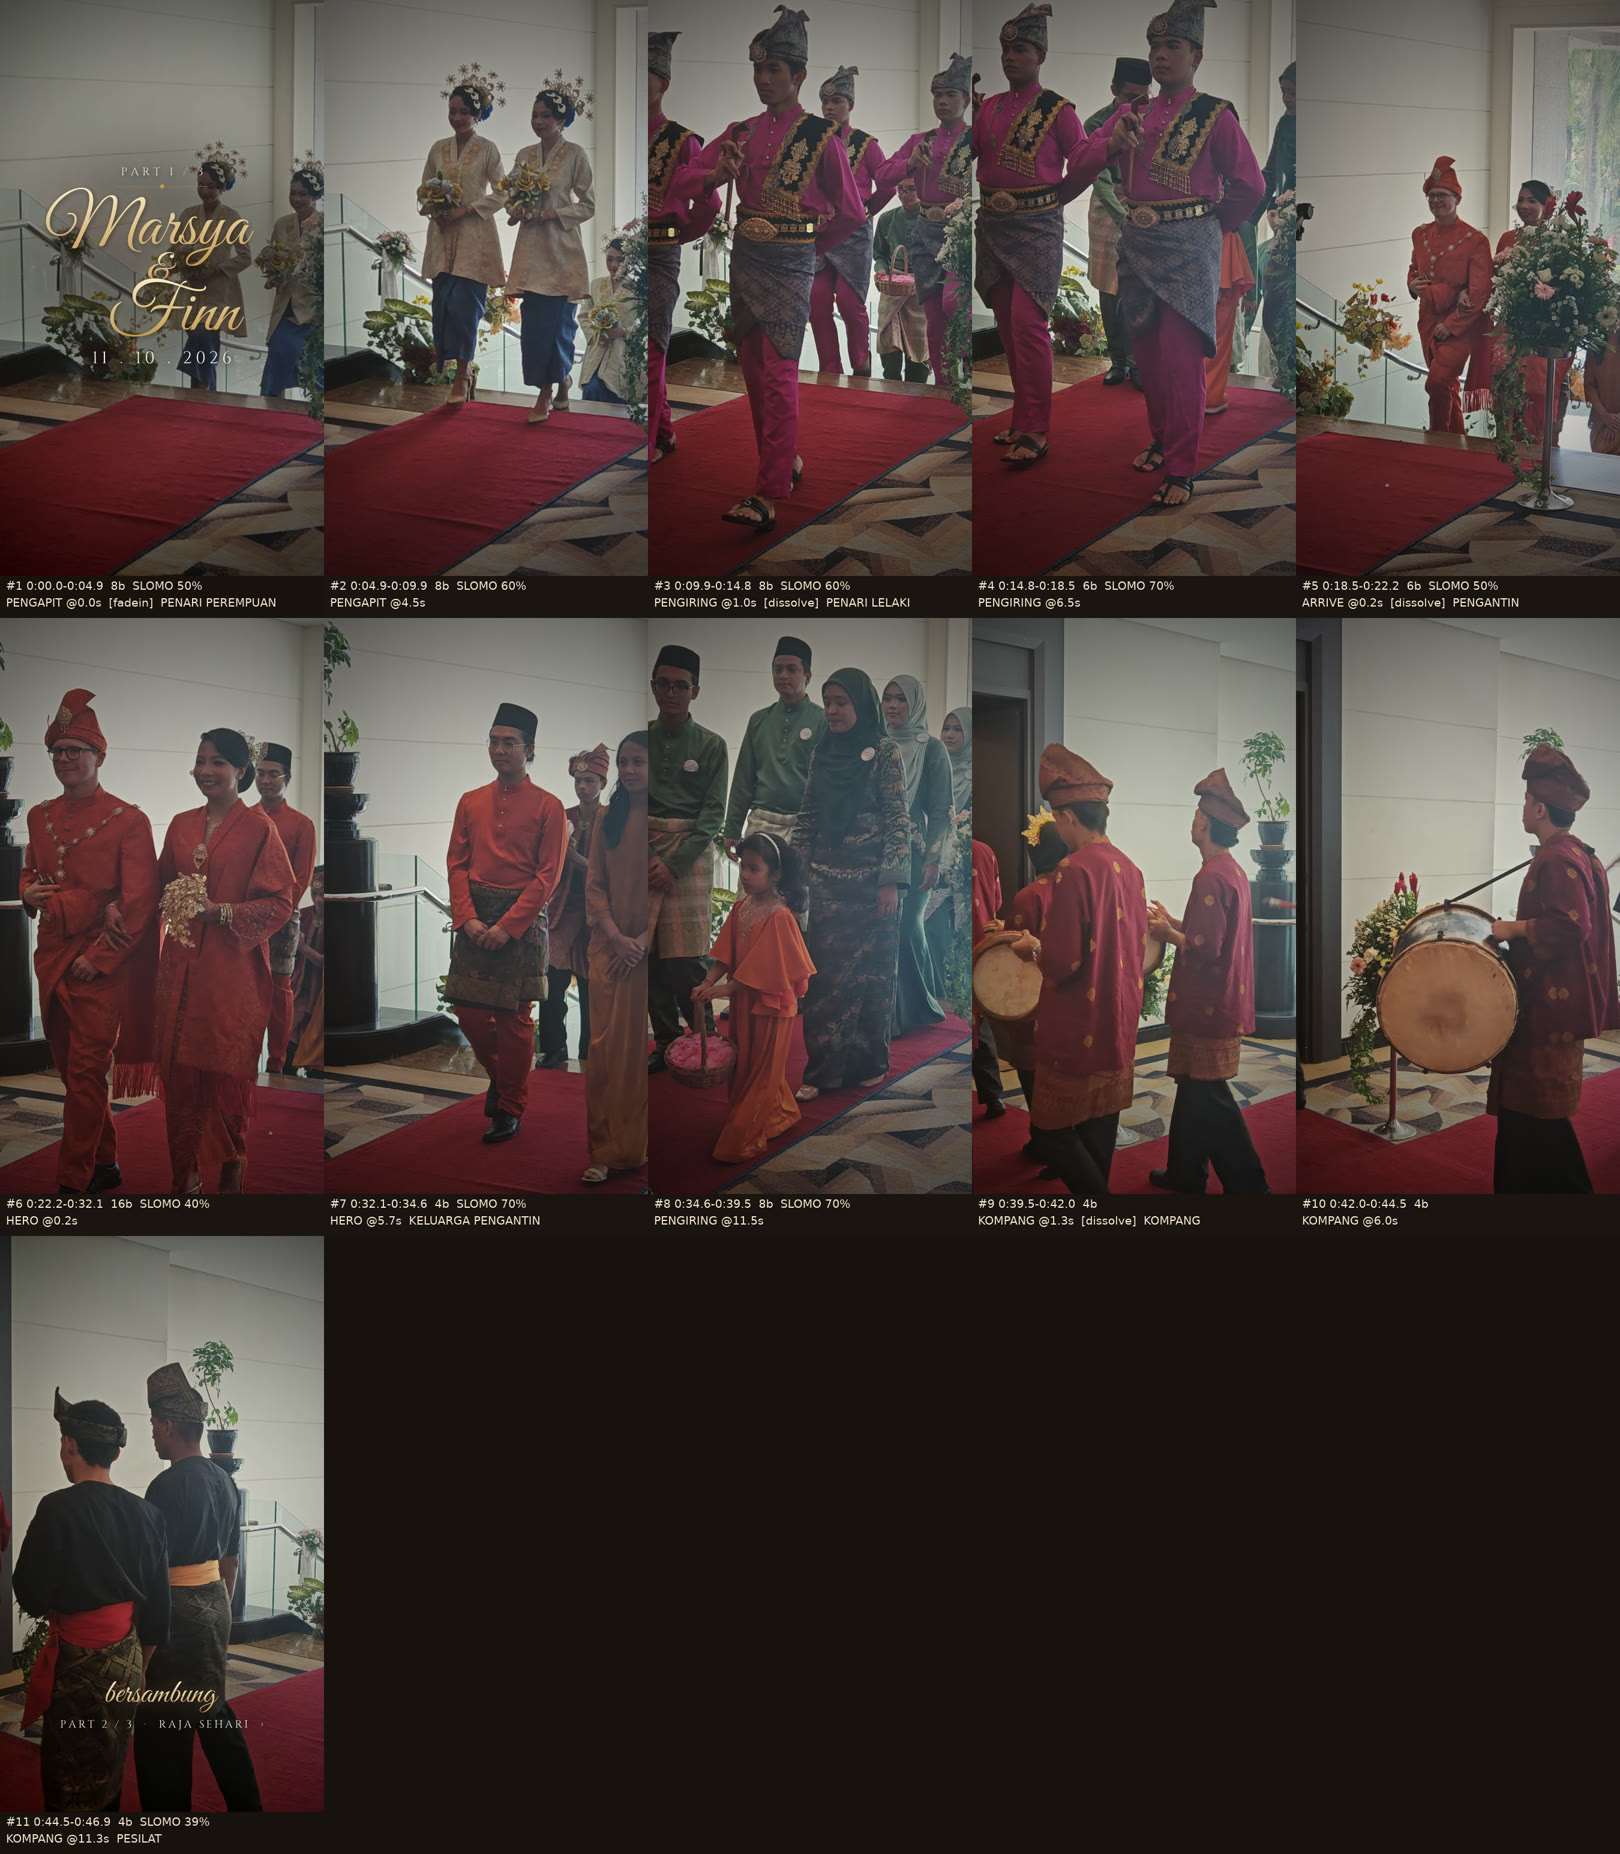
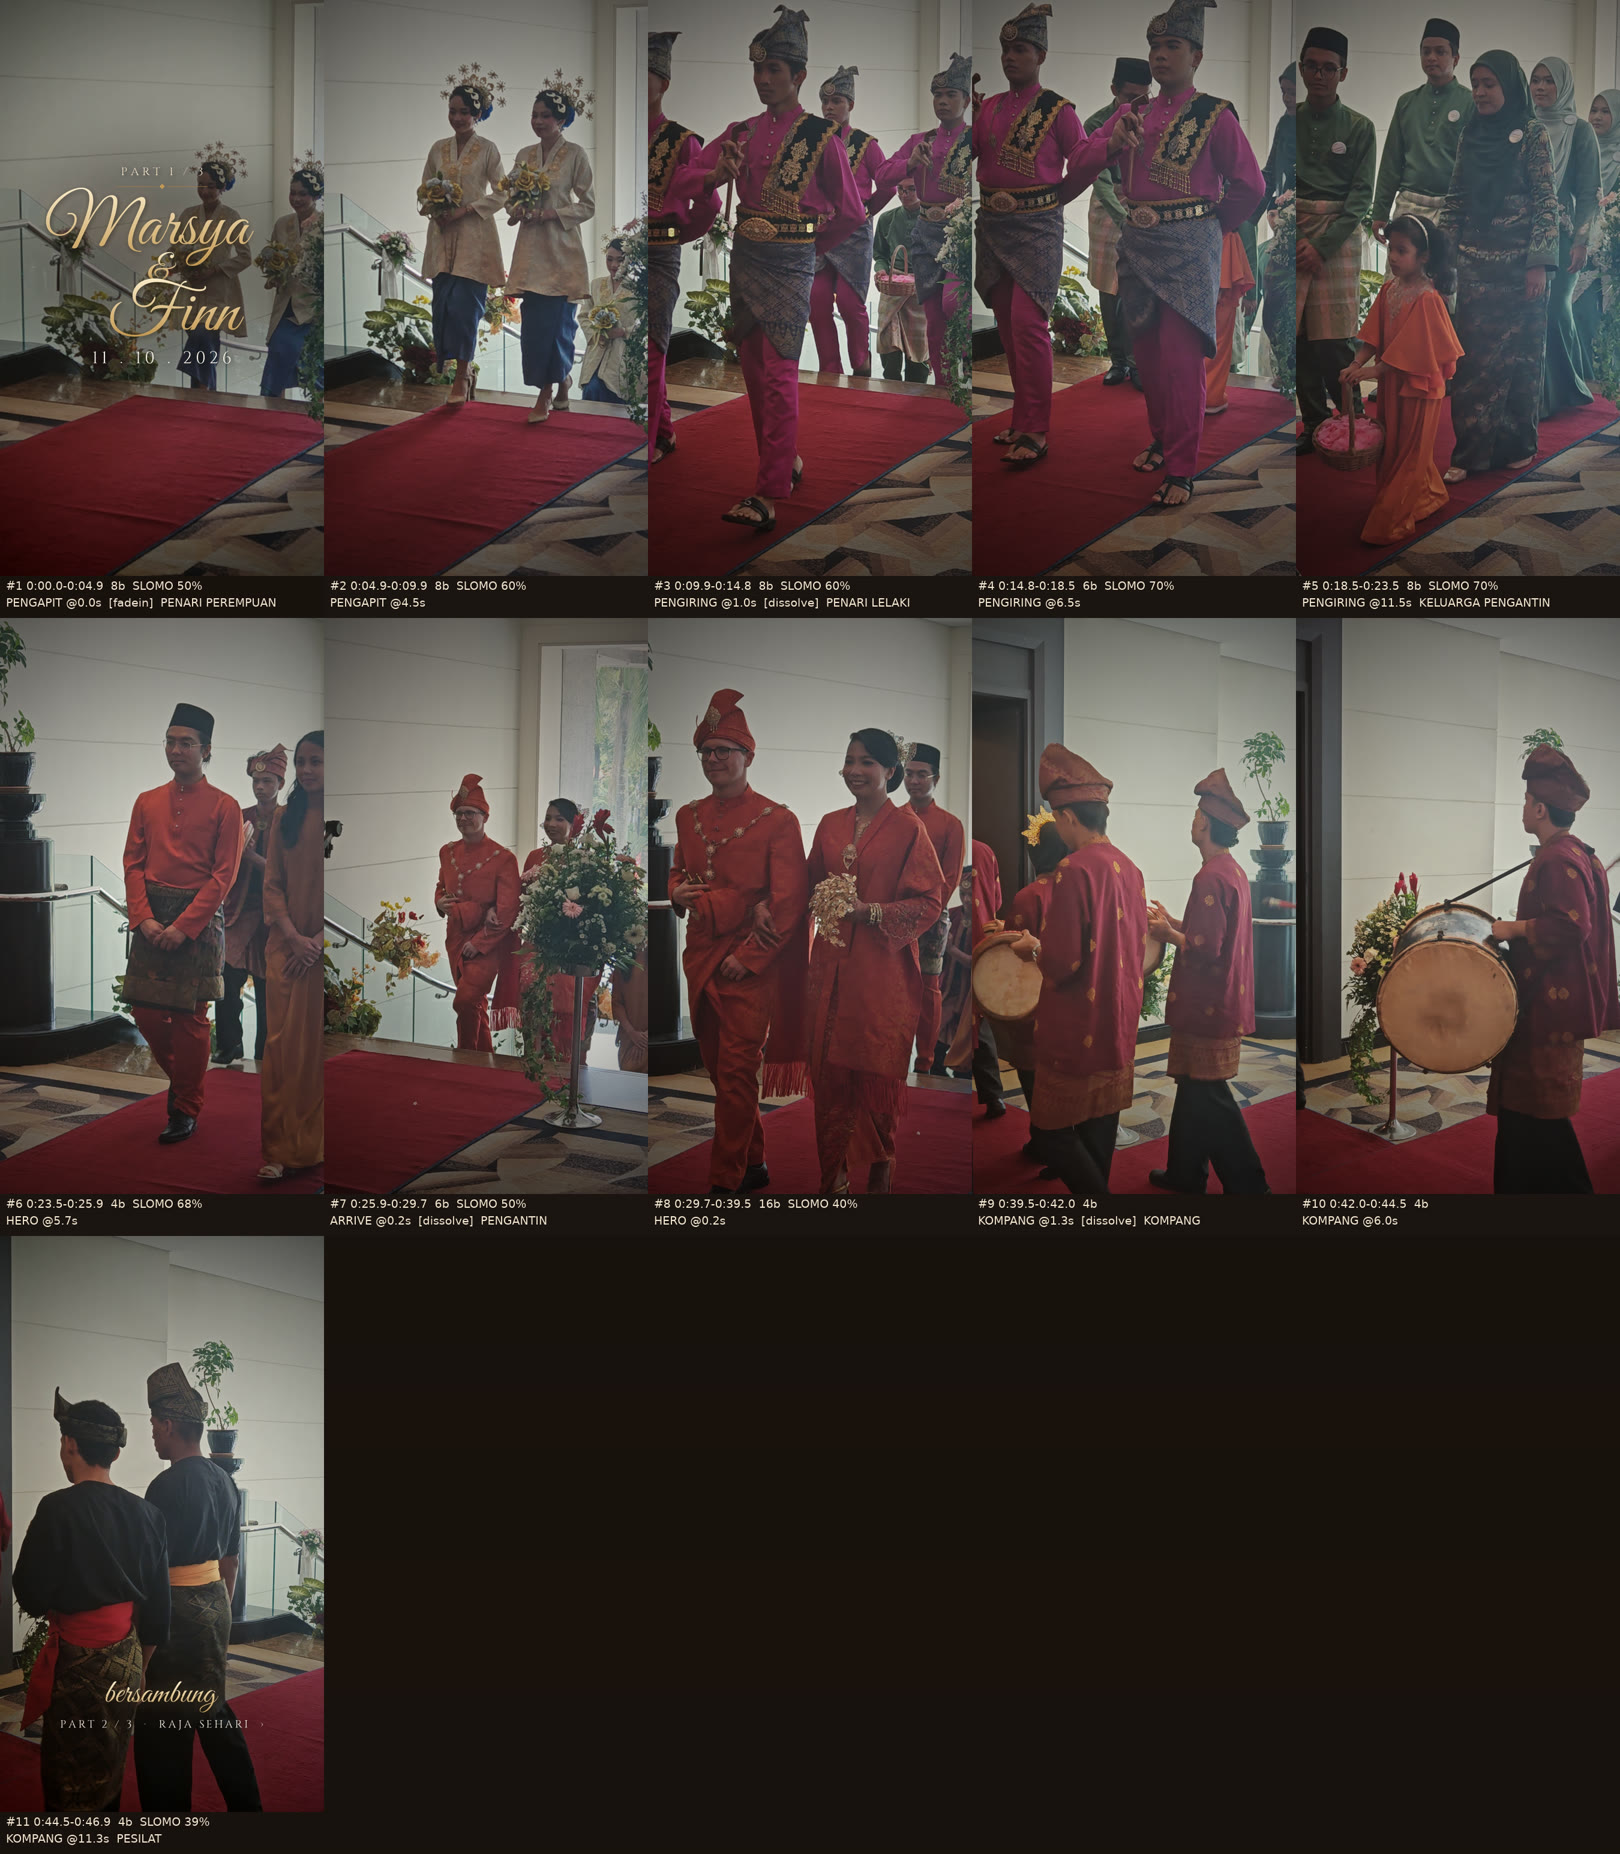
Part 1 and full film: family before the couple
Claude-Session: https://claude.ai/code/session_01PJCRENxJkCg4Rrj7eqGvz4

Changed region(s): [[0.0, 0.3074, 0.6173, 0.6764], [0.8025, 0.0, 1.0, 0.3382]]

diff --git a/wedding-reels/EDIT_PLAN.md b/wedding-reels/EDIT_PLAN.md
@@ -43,32 +43,32 @@ Status: **muzik dipilih, timeline disync ikut beat, preview 540p siap. Render fi
 
 | Video | Tajuk | Durasi | Isi |
 |---|---|---|---|
-| Part 1/3 | **Berarak Masuk** | 47s | Ikut susunan perarakan: penari perempuan, penari lelaki, pengantin, keluarga pengantin, kompang, pesilat, kemudian kad *"bersambung · Part 2"* |
+| Part 1/3 | **Berarak Masuk** | 47s | Ikut susunan perarakan: penari perempuan, penari lelaki, keluarga pengantin, pengantin, kompang, pesilat, kemudian kad *"bersambung · Part 2"* |
 | Part 2/3 | **Raja Sehari** | 37s | Pengantin di skrin dewan, bersanding, persembahan silat, kemudian *"bersambung · Part 3"* (diluluskan, tidak diubah) |
 | Part 3/3 | **Tarian & Joget** | 43s | Persembahan tarian (momen yang jelas berbeza), joget lambak bersama tetamu, kemudian end card |
-| **Filem penuh** | **Marsya & Finn** | 71s | Edit highlight tersendiri (bawah 1:30), bukan cantuman 3 part: perarakan, pengantin, keluarga, kompang & pesilat, skrin & bersanding, silat, tarian, joget lambak, end card. Satu lagu sepanjang filem. |
+| **Filem penuh** | **Marsya & Finn** | 71s | Edit highlight tersendiri (bawah 1:30), bukan cantuman 3 part: perarakan, keluarga, pengantin, kompang & pesilat, skrin & bersanding, silat, tarian, joget lambak, end card. Satu lagu sepanjang filem. |
 
 - **Tiada shot ulangan:** setiap video disemak dengan `qa_repeats.py`: tiada footage bertindih dalam video atau antara part, dan tiada dua shot dari klip yang sama yang terlalu rapat (< 1.5s) sehingga nampak berulang.
 - **Intro:** kad emas *PART n / 3* · **Marsya & Finn** (Great Vibes) · **11 . 10 . 2026** (Cinzel). Filem penuh guna `intro_full.png` (tanpa label PART). Tiada caption di bawah tarikh.
 
-### Part 1/3: "Berarak Masuk" (46.9s · 97.1 BPM)
-*Part 1/3: perarakan masuk mengikut susunan: penari perempuan, penari lelaki, pengantin, keluarga pengantin, kompang, pesilat.*
+### Part 1/3: "Berarak Masuk" (46.7s · 97.1 BPM)
+*Part 1/3: perarakan masuk mengikut susunan: penari perempuan, penari lelaki, keluarga pengantin, pengantin, kompang, pesilat.*
 
-Muzik: **Instrumental Melayu #7 (@DHMUSICART20)**, mula pada saat 57.27. Cut disesuaikan dengan beat sebenar lagu.
+Muzik: **Instrumental Melayu #7 (@DHMUSICART20)**, mula pada saat 62.33. Cut disesuaikan dengan beat sebenar lagu.
 
 | # | Masa | Beat | Laju | Shot | Transition | Babak |
 |---|---|---|---|---|---|---|
-| 1 | 0:00.0–0:05.1 | 8 | 50% | PENGAPIT @0.0s · kad `intro_part1.png` | fadein | PENARI PEREMPUAN |
-| 2 | 0:05.1–0:09.4 | 8 | 60% | PENGAPIT @4.5s | cut |  |
+| 1 | 0:00.0–0:04.4 | 8 | 50% | PENGAPIT @0.0s · kad `intro_part1.png` | fadein | PENARI PEREMPUAN |
+| 2 | 0:04.4–0:09.4 | 8 | 60% | PENGAPIT @4.5s | cut |  |
 | 3 | 0:09.4–0:14.4 | 8 | 60% | PENGIRING @1.0s | dissolve | PENARI LELAKI |
-| 4 | 0:14.4–0:18.1 | 6 | 70% | PENGIRING @6.5s | cut |  |
-| 5 | 0:18.1–0:22.0 | 6 | 50% | ARRIVE @0.2s | dissolve | PENGANTIN |
-| 6 | 0:22.0–0:32.0 | 16 | 40% | HERO @0.2s | cut |  |
-| 7 | 0:32.0–0:34.5 | 4 | 70% | HERO @5.7s | cut | KELUARGA PENGANTIN |
-| 8 | 0:34.5–0:39.5 | 8 | 70% | PENGIRING @11.5s | cut |  |
-| 9 | 0:39.5–0:42.0 | 4 | 100% | KOMPANG @1.3s | dissolve | KOMPANG |
-| 10 | 0:42.0–0:44.4 | 4 | 100% | KOMPANG @6.0s | cut |  |
-| 11 | 0:44.4–0:46.9 | 4 | 39% | KOMPANG @11.3s · kad `next_part2.png` | cut | PESILAT |
+| 4 | 0:14.4–0:18.2 | 6 | 70% | PENGIRING @6.5s | cut |  |
+| 5 | 0:18.2–0:23.2 | 8 | 70% | PENGIRING @11.5s | cut | KELUARGA PENGANTIN |
+| 6 | 0:23.2–0:25.7 | 4 | 68% | HERO @5.7s | cut |  |
+| 7 | 0:25.7–0:29.4 | 6 | 50% | ARRIVE @0.2s | dissolve | PENGANTIN |
+| 8 | 0:29.4–0:39.4 | 16 | 40% | HERO @0.2s | cut |  |
+| 9 | 0:39.4–0:41.8 | 4 | 100% | KOMPANG @1.3s | dissolve | KOMPANG |
+| 10 | 0:41.8–0:44.3 | 4 | 100% | KOMPANG @6.0s | cut |  |
+| 11 | 0:44.3–0:46.7 | 4 | 40% | KOMPANG @11.3s · kad `next_part2.png` | cut | PESILAT |
 
 ### Part 2/3: "Raja Sehari" (36.8s · 121.7 BPM)
 *Part 2/3: pengantin di skrin dewan, bersanding, kemudian persembahan silat untuk pengantin.*
@@ -111,32 +111,32 @@ Muzik: **Instrumental Melayu #8 (@DHMUSICART20)**, mula pada saat 1.63. Cut dise
 | 13 | 0:36.0–0:39.0 | 6 | 100% | GUEST @7.0s | cut |  |
 | 14 | 0:39.0–0:43.0 | 8 | — | Hitam · kad `end_card.png` | dissolve |  |
 
-### Filem penuh: "Marsya & Finn" (70.6s · 97.1 BPM)
-*Filem penuh (bawah 1:30): highlight seluruh majlis mengikut susunan: perarakan, pengantin, kompang & pesilat, skrin & bersanding, silat, tarian, joget lambak, end card.*
+### Filem penuh: "Marsya & Finn" (70.2s · 97.1 BPM)
+*Filem penuh (bawah 1:30): highlight seluruh majlis mengikut susunan: perarakan, keluarga, pengantin, kompang & pesilat, skrin & bersanding, silat, tarian, joget lambak, end card.*
 
-Muzik: **Instrumental Melayu #7 (@DHMUSICART20)**, mula pada saat 4.78. Cut disesuaikan dengan beat sebenar lagu.
+Muzik: **Instrumental Melayu #7 (@DHMUSICART20)**, mula pada saat 2.76. Cut disesuaikan dengan beat sebenar lagu.
 
 | # | Masa | Beat | Laju | Shot | Transition | Babak |
 |---|---|---|---|---|---|---|
-| 1 | 0:00.0–0:05.3 | 8 | 50% | PENGAPIT @0.0s · kad `intro_full.png` | fadein | PERARAKAN |
-| 2 | 0:05.3–0:09.2 | 6 | 60% | PENGIRING @1.0s | cut |  |
-| 3 | 0:09.2–0:11.7 | 4 | 60% | ARRIVE @0.2s | dissolve | PENGANTIN |
-| 4 | 0:11.7–0:20.6 | 14 | 40% | HERO @0.2s | cut |  |
-| 5 | 0:20.6–0:24.4 | 6 | 70% | PENGIRING @11.5s | cut | KELUARGA |
-| 6 | 0:24.4–0:26.9 | 4 | 100% | KOMPANG @5.0s | cut | KOMPANG |
-| 7 | 0:26.9–0:29.4 | 4 | 100% | KOMPANG @9.2s | cut | PESILAT |
-| 8 | 0:29.4–0:33.1 | 6 | 70% | SCREEN @4.4s | dissolve | SKRIN |
-| 9 | 0:33.1–0:38.2 | 8 | 50% | SILAT @23.5s (dibingkai) | cut | BERSANDING |
-| 10 | 0:38.2–0:41.3 | 6 | 50% | SILAT @4.0s | dissolve | SILAT |
-| 11 | 0:41.3–0:43.7 | 4 | 100% | SILAT @10.0s | cut |  |
-| 12 | 0:43.7–0:46.2 | 4 | 70% | SILAT @19.8s | cut |  |
-| 13 | 0:46.2–0:50.0 | 6 | 50% | DANCE @10.0s | dissolve | TARIAN |
-| 14 | 0:50.0–0:53.7 | 6 | 50% | DANCE @17.8s | cut |  |
-| 15 | 0:53.7–0:56.3 | 4 | 60% | DANCE @41.6s | cut |  |
-| 16 | 0:56.3–0:58.6 | 4 | 100% | DANCE @49.5s | cut |  |
-| 17 | 0:58.6–1:01.9 | 6 | 100% | HALL @0.3s | cut | JOGET LAMBAK |
-| 18 | 1:01.9–1:05.7 | 6 | 100% | GUEST @7.0s | cut |  |
-| 19 | 1:05.7–1:10.6 | 8 | — | Hitam · kad `end_card.png` | dissolve |  |
+| 1 | 0:00.0–0:04.8 | 8 | 50% | PENGAPIT @0.0s · kad `intro_full.png` | fadein | PERARAKAN |
+| 2 | 0:04.8–0:08.6 | 6 | 60% | PENGIRING @1.0s | cut |  |
+| 3 | 0:08.6–0:12.5 | 6 | 70% | PENGIRING @11.5s | cut | KELUARGA |
+| 4 | 0:12.5–0:15.0 | 4 | 60% | ARRIVE @0.2s | dissolve | PENGANTIN |
+| 5 | 0:15.0–0:23.9 | 14 | 40% | HERO @0.2s | cut |  |
+| 6 | 0:23.9–0:26.4 | 4 | 100% | KOMPANG @5.0s | cut | KOMPANG |
+| 7 | 0:26.4–0:28.9 | 4 | 100% | KOMPANG @9.2s | cut | PESILAT |
+| 8 | 0:28.9–0:32.7 | 6 | 70% | SCREEN @4.4s | dissolve | SKRIN |
+| 9 | 0:32.7–0:37.7 | 8 | 50% | SILAT @23.5s (dibingkai) | cut | BERSANDING |
+| 10 | 0:37.7–0:41.1 | 6 | 50% | SILAT @4.0s | dissolve | SILAT |
+| 11 | 0:41.1–0:43.3 | 4 | 100% | SILAT @10.0s | cut |  |
+| 12 | 0:43.3–0:45.7 | 4 | 70% | SILAT @19.8s | cut |  |
+| 13 | 0:45.7–0:49.5 | 6 | 50% | DANCE @10.0s | dissolve | TARIAN |
+| 14 | 0:49.5–0:53.3 | 6 | 50% | DANCE @17.8s | cut |  |
+| 15 | 0:53.3–0:55.8 | 4 | 60% | DANCE @41.6s | cut |  |
+| 16 | 0:55.8–0:58.3 | 4 | 100% | DANCE @49.5s | cut |  |
+| 17 | 0:58.3–1:01.7 | 6 | 100% | HALL @0.3s | cut | JOGET LAMBAK |
+| 18 | 1:01.7–1:05.2 | 6 | 100% | GUEST @7.0s | cut |  |
+| 19 | 1:05.2–1:10.2 | 8 | — | Hitam · kad `end_card.png` | dissolve |  |
 
 ### Muzik: instrumental lagu Melayu (dibekalkan oleh pengguna)
 Sumber: fail "Easy Listening !!! Kumpulan Musik Instrumen Melayu @DHMUSICART20.mp3" (kompilasi 13 lagu, 64.6 minit) dalam folder Drive.
